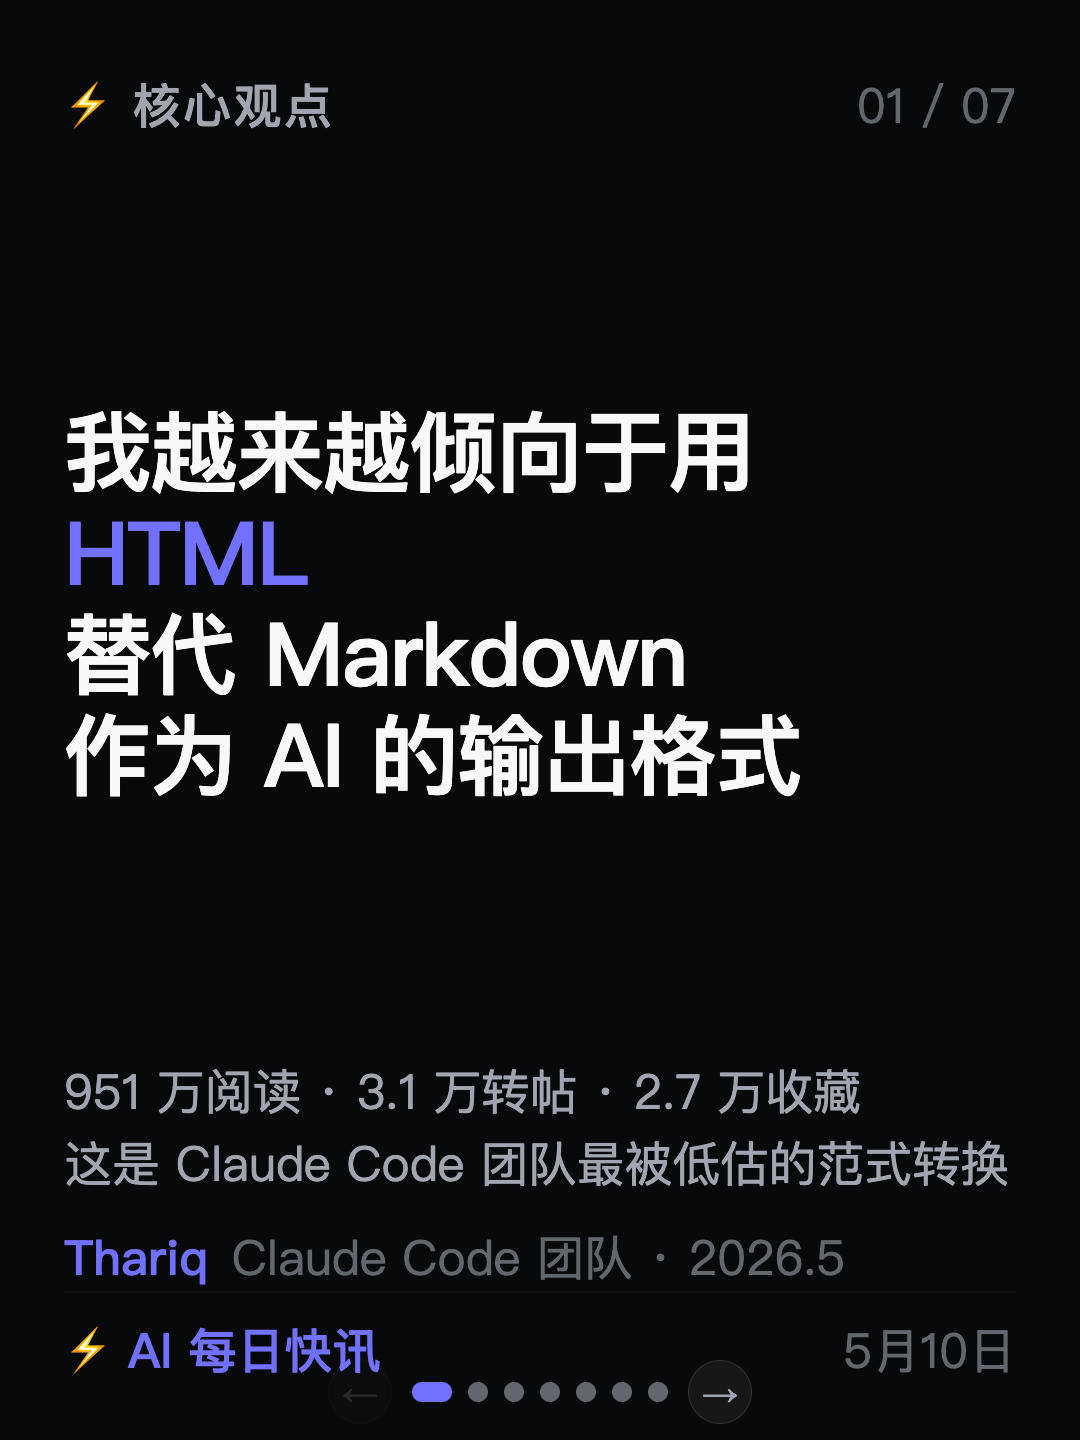
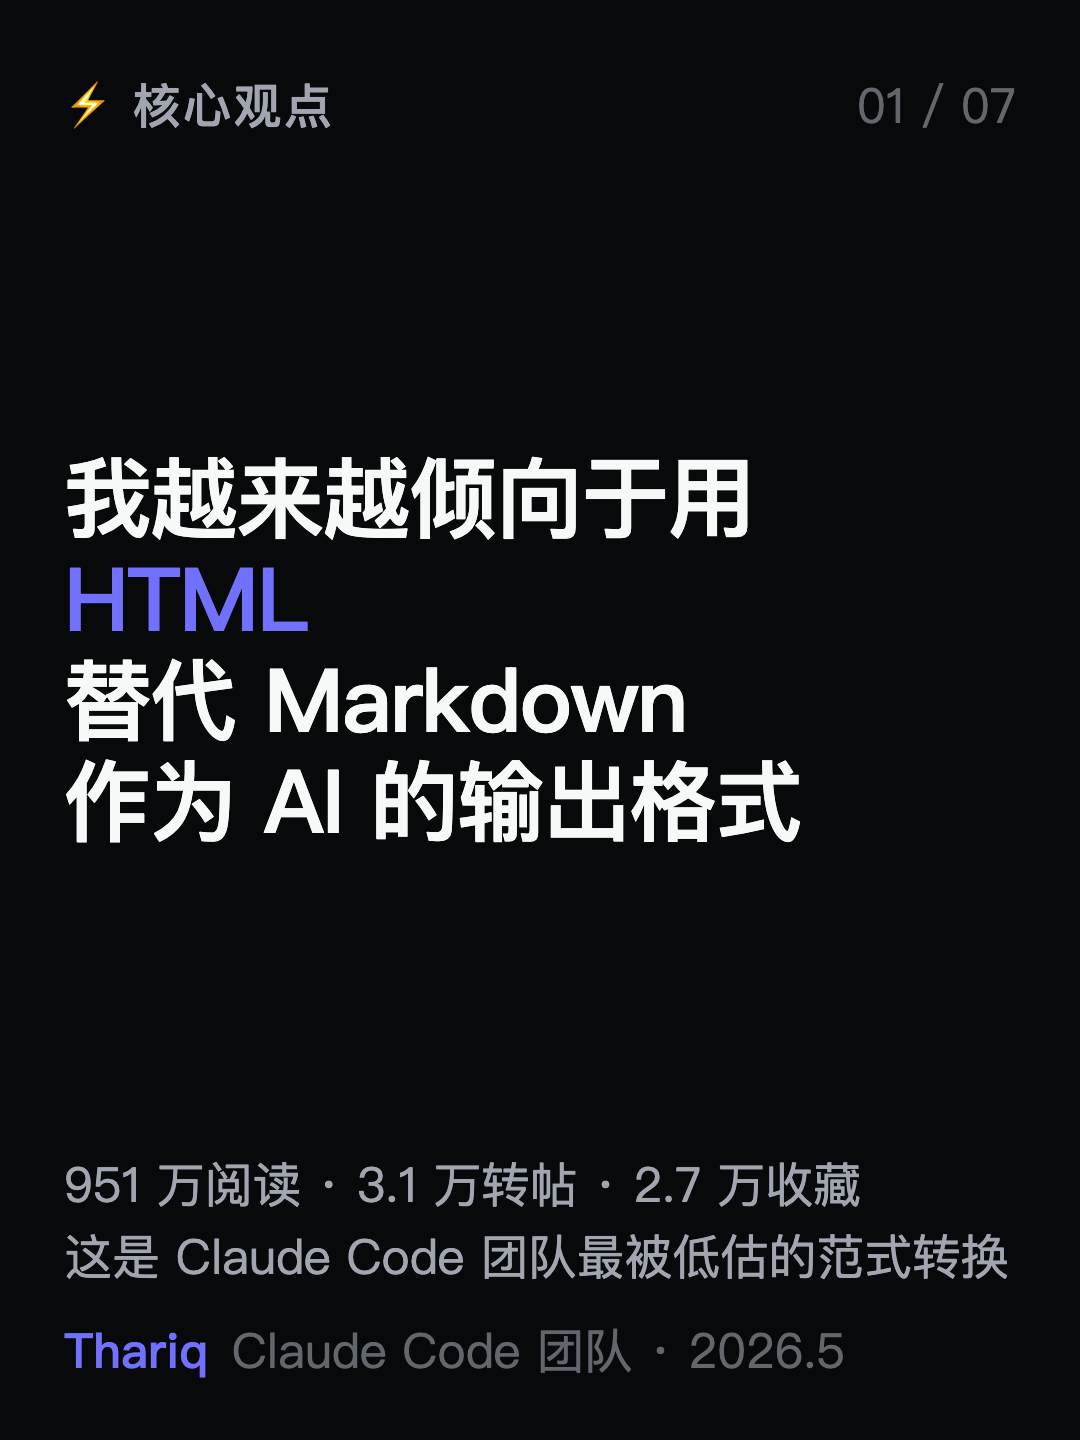
🎨 去AI味：删footer/导航/重复标题，重截图

Changed region(s): [[0.0611, 0.7188, 0.9472, 0.9688], [0.0611, 0.2812, 0.7333, 0.5938]]

diff --git a/docs/20260510-thariq-html.html b/docs/20260510-thariq-html.html
@@ -121,16 +121,6 @@ body {
 }
 .ucd-insight strong { color: #f7f8f8; font-weight: 600; }
 
-/* Footer */
-.card-footer {
-  display: flex; justify-content: space-between; align-items: center;
-  padding-top: 24px; margin-top: auto;
-  border-top: 1px solid rgba(255,255,255,0.06);
-  flex-shrink: 0;
-}
-.card-footer .brand { font-size: 48px; font-weight: 500; }
-.card-footer .date { font-size: 48px; font-weight: 400; color: #62666d; }
-
 /* Navigation */
 .nav-bar {
   position: absolute; bottom: 0; left: 0; right: 0;
@@ -178,10 +168,6 @@ body {
       <span class="tag">Thariq</span>
       <span class="source">Claude Code 团队 · 2026.5</span>
     </div>
-    <div class="card-footer">
-      <span class="brand">⚡ AI 每日快讯</span>
-      <span class="date">5月10日</span>
-    </div>
   </div>
 
   <!-- Page 2: 为什么 HTML -->
@@ -211,10 +197,6 @@ body {
         </div>
       </div>
     </div>
-    <div class="card-footer">
-      <span class="brand">⚡ AI 每日快讯</span>
-      <span class="date">5月10日</span>
-    </div>
   </div>
 
   <!-- Page 3: 方案规划与探索 -->
@@ -224,17 +206,12 @@ body {
       <span class="page-num">03 / 07</span>
     </div>
     <div class="ucd-container">
-      <div class="ucd-headline">方案规划与探索</div>
       <div class="ucd-img-wrap">
         <img src="assets/20260510/thariq-specs.jpg" alt="方案规划与探索示例截图">
       </div>
       <div class="ucd-insight">
         HTML 能在单页内平铺 6 种方案对比网格，标注每个的取舍。Markdown 做不到这种视觉化对比——你只能在多个文件间来回切换。HTML 把探索过程做成可交互的「方案网络」，从不确定到收敛再到验证，全程可视化。
       </div>
-    </div>
-    <div class="card-footer">
-      <span class="brand">⚡ AI 每日快讯</span>
-      <span class="date">5月10日</span>
     </div>
   </div>
 
@@ -245,17 +222,12 @@ body {
       <span class="page-num">04 / 07</span>
     </div>
     <div class="ucd-container">
-      <div class="ucd-headline">代码审查与理解</div>
       <div class="ucd-img-wrap">
         <img src="assets/20260510/thariq-codereview.png" alt="代码审查示例截图">
       </div>
       <div class="ucd-insight">
         HTML 能渲染带边注的 diff、按严重度颜色标记的流程图和模块关系图。Markdown 的代码块只是静态片段，而 HTML 可以把整个 PR 的上下文组织成可浏览的解释页。Thariq 现在每个 PR 都附一个 HTML 解释页，比 GitHub diff 好用得多。
       </div>
-    </div>
-    <div class="card-footer">
-      <span class="brand">⚡ AI 每日快讯</span>
-      <span class="date">5月10日</span>
     </div>
   </div>
 
@@ -266,17 +238,12 @@ body {
       <span class="page-num">05 / 07</span>
     </div>
     <div class="ucd-container">
-      <div class="ucd-headline">设计与原型</div>
       <div class="ucd-img-wrap">
         <img src="assets/20260510/thariq-design.jpg" alt="设计与原型示例截图">
       </div>
       <div class="ucd-insight">
         HTML 可以添加滑块、旋钮实时调参，调好后一键复制参数转成 prompt 贴回 Claude Code。Markdown 无法实现这种双向交互——你只能描述想要的效果，等 AI 重新生成。HTML 让你在视觉上「调」到满意为止，再跨平台实现。
       </div>
-    </div>
-    <div class="card-footer">
-      <span class="brand">⚡ AI 每日快讯</span>
-      <span class="date">5月10日</span>
     </div>
   </div>
 
@@ -287,17 +254,12 @@ body {
       <span class="page-num">06 / 07</span>
     </div>
     <div class="ucd-container">
-      <div class="ucd-headline">报告与研究</div>
       <div class="ucd-img-wrap">
         <img src="assets/20260510/thariq-report.jpg" alt="报告与研究示例截图">
       </div>
       <div class="ucd-insight">
         HTML 可以从 Slack、代码、Git 历史、网络多个来源综合信息，产出带 SVG 流程图和交互式图表的长报告甚至幻灯片。Markdown 报告只能靠文字和表格，而 HTML 报告可以分享链接而非附件——阅读率翻倍。
       </div>
-    </div>
-    <div class="card-footer">
-      <span class="brand">⚡ AI 每日快讯</span>
-      <span class="date">5月10日</span>
     </div>
   </div>
 
@@ -308,7 +270,6 @@ body {
       <span class="page-num">07 / 07</span>
     </div>
     <div class="ucd-container">
-      <div class="ucd-headline">自定义编辑面板</div>
       <div class="ucd-img-wrap">
         <img src="assets/20260510/thariq-editor.jpg" alt="自定义编辑面板示例截图">
       </div>
@@ -316,27 +277,7 @@ body {
         HTML 可以做一个专为当前数据定制的拖拽面板或配置编辑器，用完即弃。Markdown 无法承载这种交互操作——你只能通过文字描述指挥 AI。HTML 让编辑变得直观，最后用导出按钮把结果转回 prompt 形成闭环。
       </div>
     </div>
-    <div class="card-footer">
-      <span class="brand">⚡ AI 每日快讯</span>
-      <span class="date">5月10日</span>
-    </div>
   </div>
-
-  <!-- Navigation -->
-  <div class="nav-bar">
-    <button class="nav-btn" id="prevBtn" onclick="flip(-1)" disabled>←</button>
-    <div class="dots">
-      <button class="dot active" onclick="goTo(0)"></button>
-      <button class="dot" onclick="goTo(1)"></button>
-      <button class="dot" onclick="goTo(2)"></button>
-      <button class="dot" onclick="goTo(3)"></button>
-      <button class="dot" onclick="goTo(4)"></button>
-      <button class="dot" onclick="goTo(5)"></button>
-      <button class="dot" onclick="goTo(6)"></button>
-    </div>
-    <button class="nav-btn" id="nextBtn" onclick="flip(1)">→</button>
-  </div>
-</div>
 
 <script>
 let current = 0;
